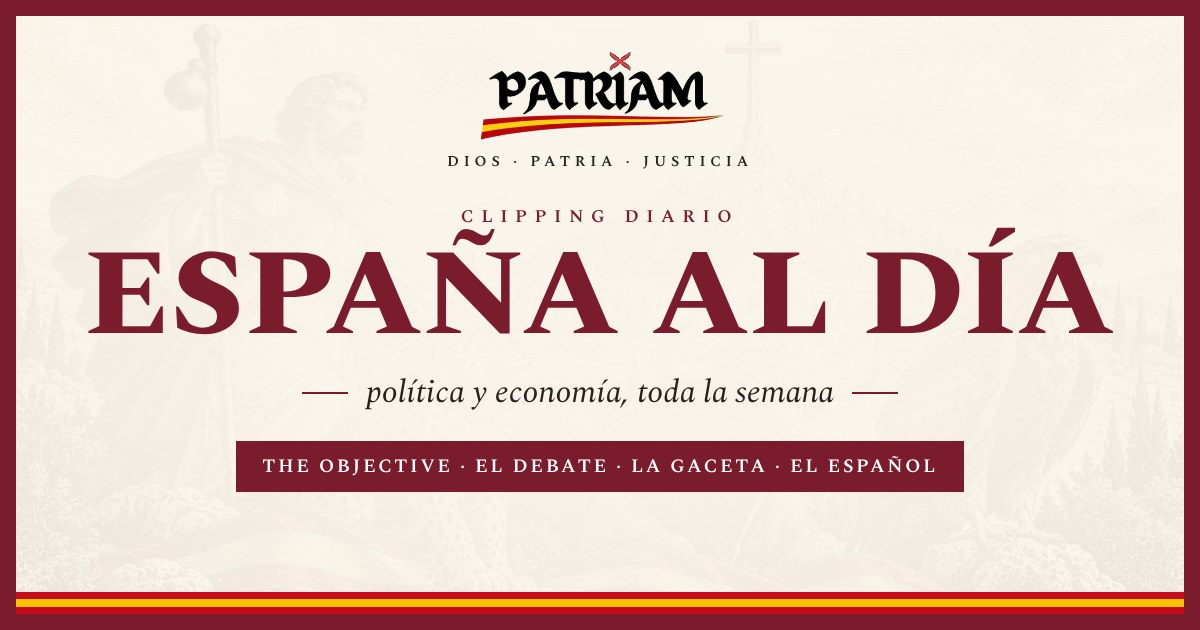
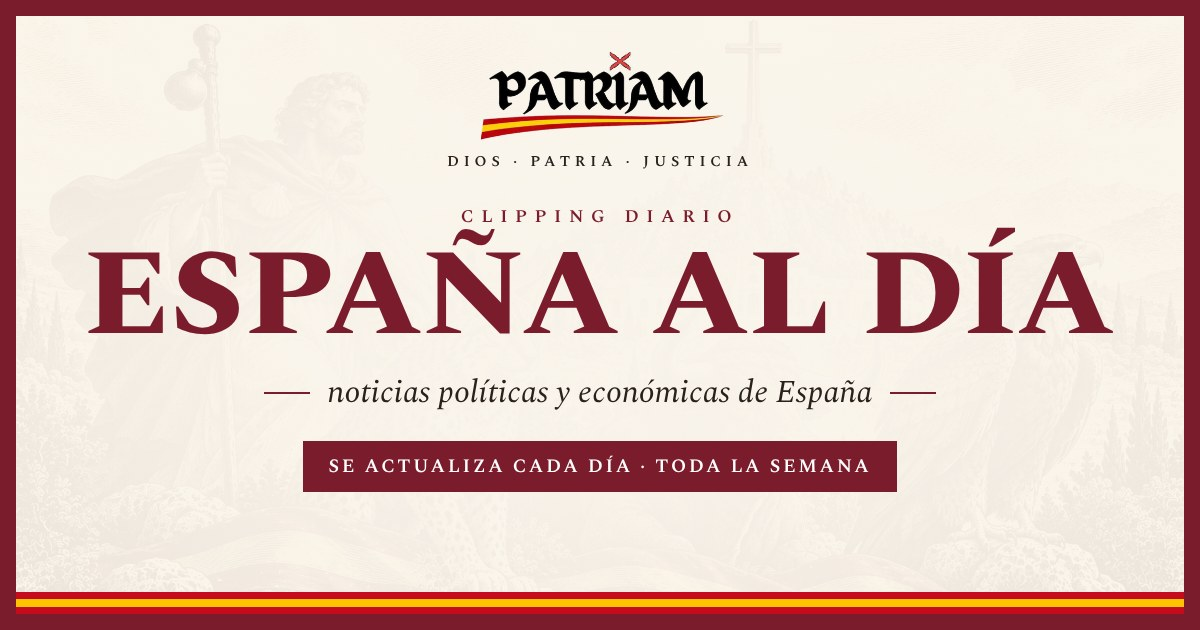
«España al día»: sin nombrar los medios en los textos, cabecera bien en el móvil, tarjeta nueva y agrupación más fina (solo junta la misma noticia)
Claude-Session: https://claude.ai/code/session_01ReznV3hnKjje8iZQ4gJXdo

Changed region(s): [[0.185, 0.6937, 0.8017, 0.7841], [0.2467, 0.6032, 0.74, 0.6635]]

diff --git a/web/boletin.js b/web/boletin.js
@@ -468,14 +468,14 @@ function espanaBloque() {
   if (!gs.length) return "";
   const dest = gs.filter(g => g.medios.length > 1).concat(gs.filter(g => g.medios.length < 2)).slice(0, 6);
   return '<section class="bol-espana"><div class="bol-sec-cab"><h2 class="bol-tit-sec">España al día</h2><a href="#/espana-al-dia">Toda la semana ' + icono("flecha") + "</a></div>" +
-    '<p class="esp-intro">Lo que publican estos días The Objective, El Debate, La Gaceta y El Español sobre política y economía. Si varios medios cuentan lo mismo, tienes un botón para cada uno.</p>' +
+    '<p class="esp-intro">Clipping de noticias políticas y económicas de España de estos días. Si varios medios cuentan lo mismo, tienes un botón para cada uno.</p>' +
     '<div class="esp-rejilla">' + dest.map(g => espanaFicha(g, false)).join("") + "</div></section>";
 }
 function paginaEspana(filtro) {
   const d = (typeof window !== "undefined" && window.ESPANA_AL_DIA) || {};
   const gs = espanaGrupos().filter(g => !filtro || (g.tema || "").toLowerCase() === filtro);
-  let h = '<div class="bol-pagina">' + cabPagina("España al día", "Política y economía de los últimos siete días en The Objective, El Debate, La Gaceta y El Español. Se actualiza sola cada día" + (d.actualizado ? " (última vez: " + espanaDia(d.actualizado).toLowerCase() + " a las " + espanaHora(d.actualizado) + ")" : "") + ".", gs.length);
-  h += barraLector("Compartir «España al día»", "*España al día* · Clipping diario de noticias políticas y económicas de España (The Objective, El Debate, La Gaceta y El Español), con toda la semana.", "https://boletin.movimientopatriam.es/espana-al-dia");
+  let h = '<div class="bol-pagina">' + cabPagina("España al día", "Clipping de noticias políticas y económicas de España de los últimos siete días. Se actualiza solo cada día" + (d.actualizado ? " (última vez: " + espanaDia(d.actualizado).toLowerCase() + " a las " + espanaHora(d.actualizado) + ")" : "") + ".", gs.length);
+  h += barraLector("Compartir «España al día»", "*España al día* · Clipping diario de noticias políticas y económicas de España con toda la semana.", "https://boletin.movimientopatriam.es/espana-al-dia");
   h += '<nav class="crit-tabs">' + [["", "Todo"], ["politica", "Política"], ["economia", "Economía"]].map(([k, t]) => '<a href="#/espana-al-dia' + (k ? "/" + k : "") + '"' + ((filtro || "") === (k ? (k === "politica" ? "política" : "economía") : "") ? ' class="activo"' : "") + ">" + t + "</a>").join("") + "</nav>";
   if (!gs.length) return h + '<p class="bol-vacio">Todavía no hay titulares. Se cargan solos varias veces al día.</p></div>';
   let dia = "";
@@ -1148,7 +1148,7 @@ function renderCorreo(b, cfg, opciones) {
   // España al día (lo más reciente de la semana)
   const esp = espanaGrupos().slice(0, 8);
   if (esp.length) h += bloque(etiqueta("España al día") +
-    '<p style="margin:0 0 16px;font:400 14px/1.5 ' + F + ';color:#6b5f58">Política y economía de estos días en The Objective, El Debate, La Gaceta y El Español.</p>' +
+    '<p style="margin:0 0 16px;font:400 14px/1.5 ' + F + ';color:#6b5f58">Clipping de noticias políticas y económicas de España de estos días.</p>' +
     esp.map(g => '<table role="presentation" cellpadding="0" cellspacing="0" width="100%" style="margin:0 0 16px;border-top:1px solid #eadfcd"><tr>' +
       (urlSegura(g.imagen) ? '<td width="96" valign="top" style="width:96px;padding-top:12px"><img src="' + esc(g.imagen) + '" alt="" width="96" style="display:block;width:96px;height:auto;border:0;border-radius:3px"></td>' : "") +
       '<td valign="top" style="padding:12px 0 0 ' + (urlSegura(g.imagen) ? "14px" : "0") + '"><p style="margin:0 0 4px;font:600 10px ' + F + ';letter-spacing:2px;text-transform:uppercase;color:' + G + '">' + esc(g.tema || "Política") + '</p>' +

diff --git a/web/editor.html b/web/editor.html
@@ -6,7 +6,7 @@
 <meta name="robots" content="noindex, nofollow">
 <title>Editor · Lo que hay que saber</title>
 <link rel="icon" href="logo.png">
-<link rel="stylesheet" href="boletin.css?v=20261111b">
+<link rel="stylesheet" href="boletin.css?v=20261111m">
 <style>
   body { background: #efe8dc; font-family: system-ui, -apple-system, "Segoe UI", Roboto, sans-serif; font-size: 15px; line-height: 1.5; }
   .ed-barra { position: sticky; top: 0; z-index: 50; background: var(--acento); color: #fff; padding: 10px 16px; display: flex; flex-wrap: wrap; gap: 8px; align-items: center; box-shadow: 0 2px 10px rgba(0,0,0,.15); }
@@ -574,7 +574,7 @@
   });
 })();
 </script>
-<script src="boletin.js?v=20261111j"></script>
+<script src="boletin.js?v=20261111m"></script>
 <script>document.write('<script src="espana-al-dia.js?h=' + new Date().toISOString().slice(0, 13) + '"><\/script>');</script>
 <script src="importar.js?v=20261111i"></script>
 <script>document.write('<script src="aportaciones.js?m=' + Date.now().toString(36).slice(0, -4) + '"><\/script>');</script>
@@ -1117,7 +1117,7 @@ function abrirVista(movil) {
   const base = location.href.replace(/[^/]*$/, "");
   w.document.open();
   w.document.write('<!doctype html><html lang="es"><head><meta charset="utf-8"><meta name="viewport" content="width=device-width, initial-scale=1"><base href="' + base + '">' +
-    '<title>Vista previa · Boletín PATRIAM</title><link rel="stylesheet" href="boletin.css?v=20261111b">' +
+    '<title>Vista previa · Boletín PATRIAM</title><link rel="stylesheet" href="boletin.css?v=20261111m">' +
     '<style>.vp-aviso{position:sticky;top:0;z-index:999;background:#a8873a;color:#fff;font:600 13px system-ui,sans-serif;text-align:center;padding:6px 10px;letter-spacing:.04em}</style></head><body>' +
     '<div class="vp-aviso">VISTA PREVIA · Boletín Nº ' + String(actual.numero).padStart(2, "0") + ' · todavía no está publicado</div>' + renderBoletin(actual, CFG, datos) +
     '<script>document.addEventListener("click",function(e){var a=e.target.closest("a");if(a&&a.getAttribute("href")&&a.getAttribute("href").charAt(0)==="#"){e.preventDefault();}});<\/script></body></html>');

diff --git a/web/boletin.css b/web/boletin.css
@@ -252,7 +252,7 @@ h1, h2, h3 { font-family: var(--serif); font-weight: 700; line-height: 1.15; mar
 .bol-pagina { padding-top: 2.6rem; }
 .bol-pag-cab { display: flex; align-items: baseline; flex-wrap: wrap; gap: .4rem 1.4rem; padding-bottom: 1.1rem; margin-bottom: 1.8rem; border-bottom: 2px solid var(--acento); }
 .bol-pag-cab h1 { font-size: clamp(2rem, 4vw, 2.8rem); font-weight: 800; color: var(--acento); text-transform: uppercase; letter-spacing: .02em; }
-.bol-pag-cab p { margin: 0; color: var(--suave); flex: 1; }
+.bol-pag-cab p { margin: 0; color: var(--suave); flex: 1 1 320px; min-width: 0; }
 .bol-pag-cab > span { font-size: .85rem; font-weight: 700; color: #fff; background: var(--acento); border-radius: 999px; padding: .1rem .75rem; }
 .bol-filtro { display: flex; align-items: center; gap: .7rem; margin-bottom: 1.6rem; background: var(--papel); border: 1.5px solid var(--linea); border-radius: 999px; padding: 0 1.2rem; color: var(--suave); }
 .bol-filtro input { flex: 1; font: 400 1.02rem var(--serif); padding: .8rem 0; border: 0; background: none; outline: none; }
@@ -926,3 +926,5 @@ article:hover .pt-foto img, .pt-rec:hover .pt-foto img { transform: scale(1.04);
 
 /* Noticia contada por varios medios: un botón por medio */
 .leer-varios { display: flex; flex-wrap: wrap; gap: 6px; justify-content: flex-end; }
+
+@media (max-width: 640px) { .bol-pag-cab { flex-direction: column; align-items: flex-start; gap: .5rem; } .bol-pag-cab p { flex: none; font-size: 1rem; line-height: 1.45; } }

diff --git a/web/index.html b/web/index.html
@@ -28,7 +28,7 @@
 <meta name="apple-mobile-web-app-title" content="Lo que hay que saber, con criterio · Boletín de noticias de PATRIAM">
 <link rel="apple-touch-icon" href="icono-192.png">
 <link rel="icon" href="icono-192.png">
-<link rel="stylesheet" href="boletin.css?v=20261111b">
+<link rel="stylesheet" href="boletin.css?v=20261111m">
 </head>
 <body>
 <div id="app"></div>
@@ -119,7 +119,7 @@ try { setTimeout(function(){ fetch("aportar.php?accion=correo-auto", { keepalive
   (window.BOLETINES || []).forEach(function(b){ (b.colaboraciones || []).forEach(function(c){ if (c && !c.imagen && A[c.id]) c.imagen = A[c.id]; }); }); })();
 </script>
 <script src="legales.js?v=20261031a"></script>
-<script src="boletin.js?v=20261111j"></script>
+<script src="boletin.js?v=20261111m"></script>
 <script>prepararCriticas(window.BOLETINES || [], window.PATRIAM_CONFIG || {});</script>
 <script>
   /* Navegación sin cambiar la dirección: la barra muestra siempre solo la dirección del boletín.

diff --git a/web/espana-al-dia.php b/web/espana-al-dia.php
@@ -5,9 +5,9 @@ header('Content-Type: text/html; charset=utf-8');
 header('Cache-Control: no-cache, must-revalidate');
 $h = file_get_contents(__DIR__ . '/index.html');
 $t = 'España al día · Clipping de noticias políticas y económicas de España';
-$d = 'Clipping diario de noticias políticas y económicas de España: lo que publican The Objective, El Debate, La Gaceta y El Español, con toda la semana. Por PATRIAM.';
+$d = 'Clipping diario de noticias políticas y económicas de España, con toda la semana. Se actualiza cada día. Por PATRIAM.';
 $u = 'https://boletin.movimientopatriam.es/espana-al-dia';
-$i = 'https://boletin.movimientopatriam.es/espana-al-dia-og.jpg?v=1';
+$i = 'https://boletin.movimientopatriam.es/espana-al-dia-og.jpg?v=2';
 $e = fn($x) => htmlspecialchars($x, ENT_QUOTES, 'UTF-8');
 $cambios = [
   '#<title>.*?</title>#s' => '<title>' . $e($t) . '</title>',
